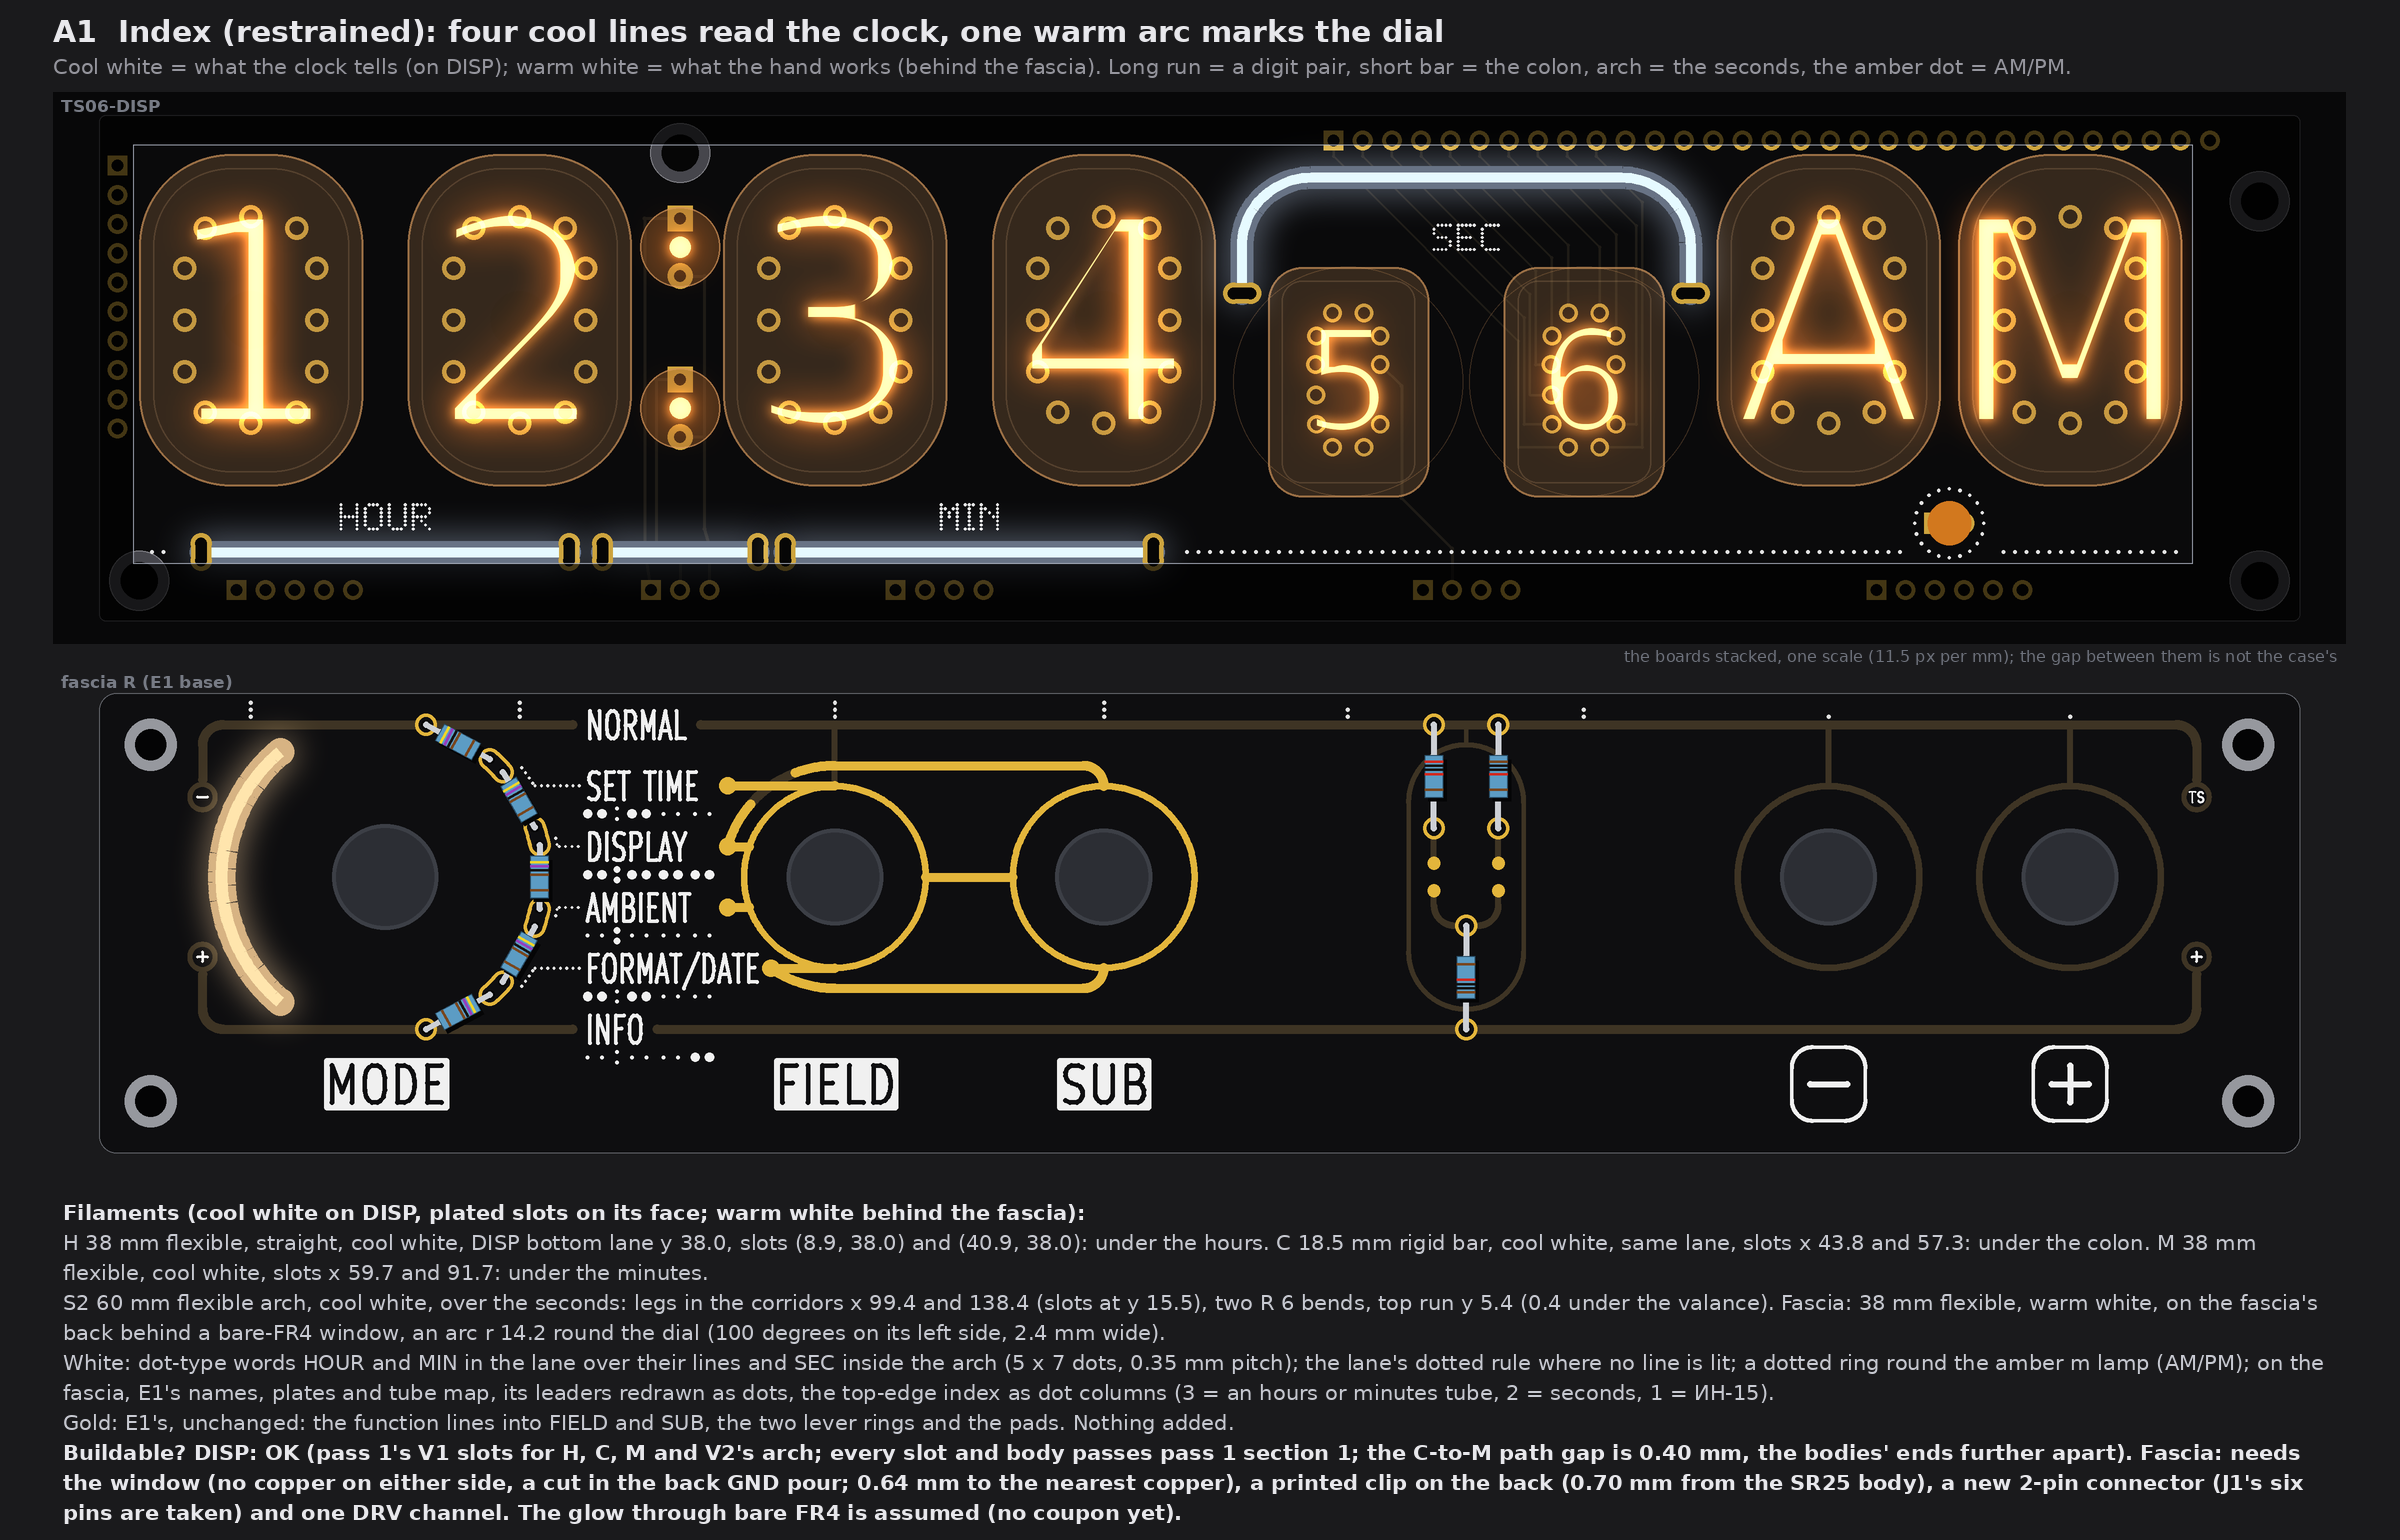
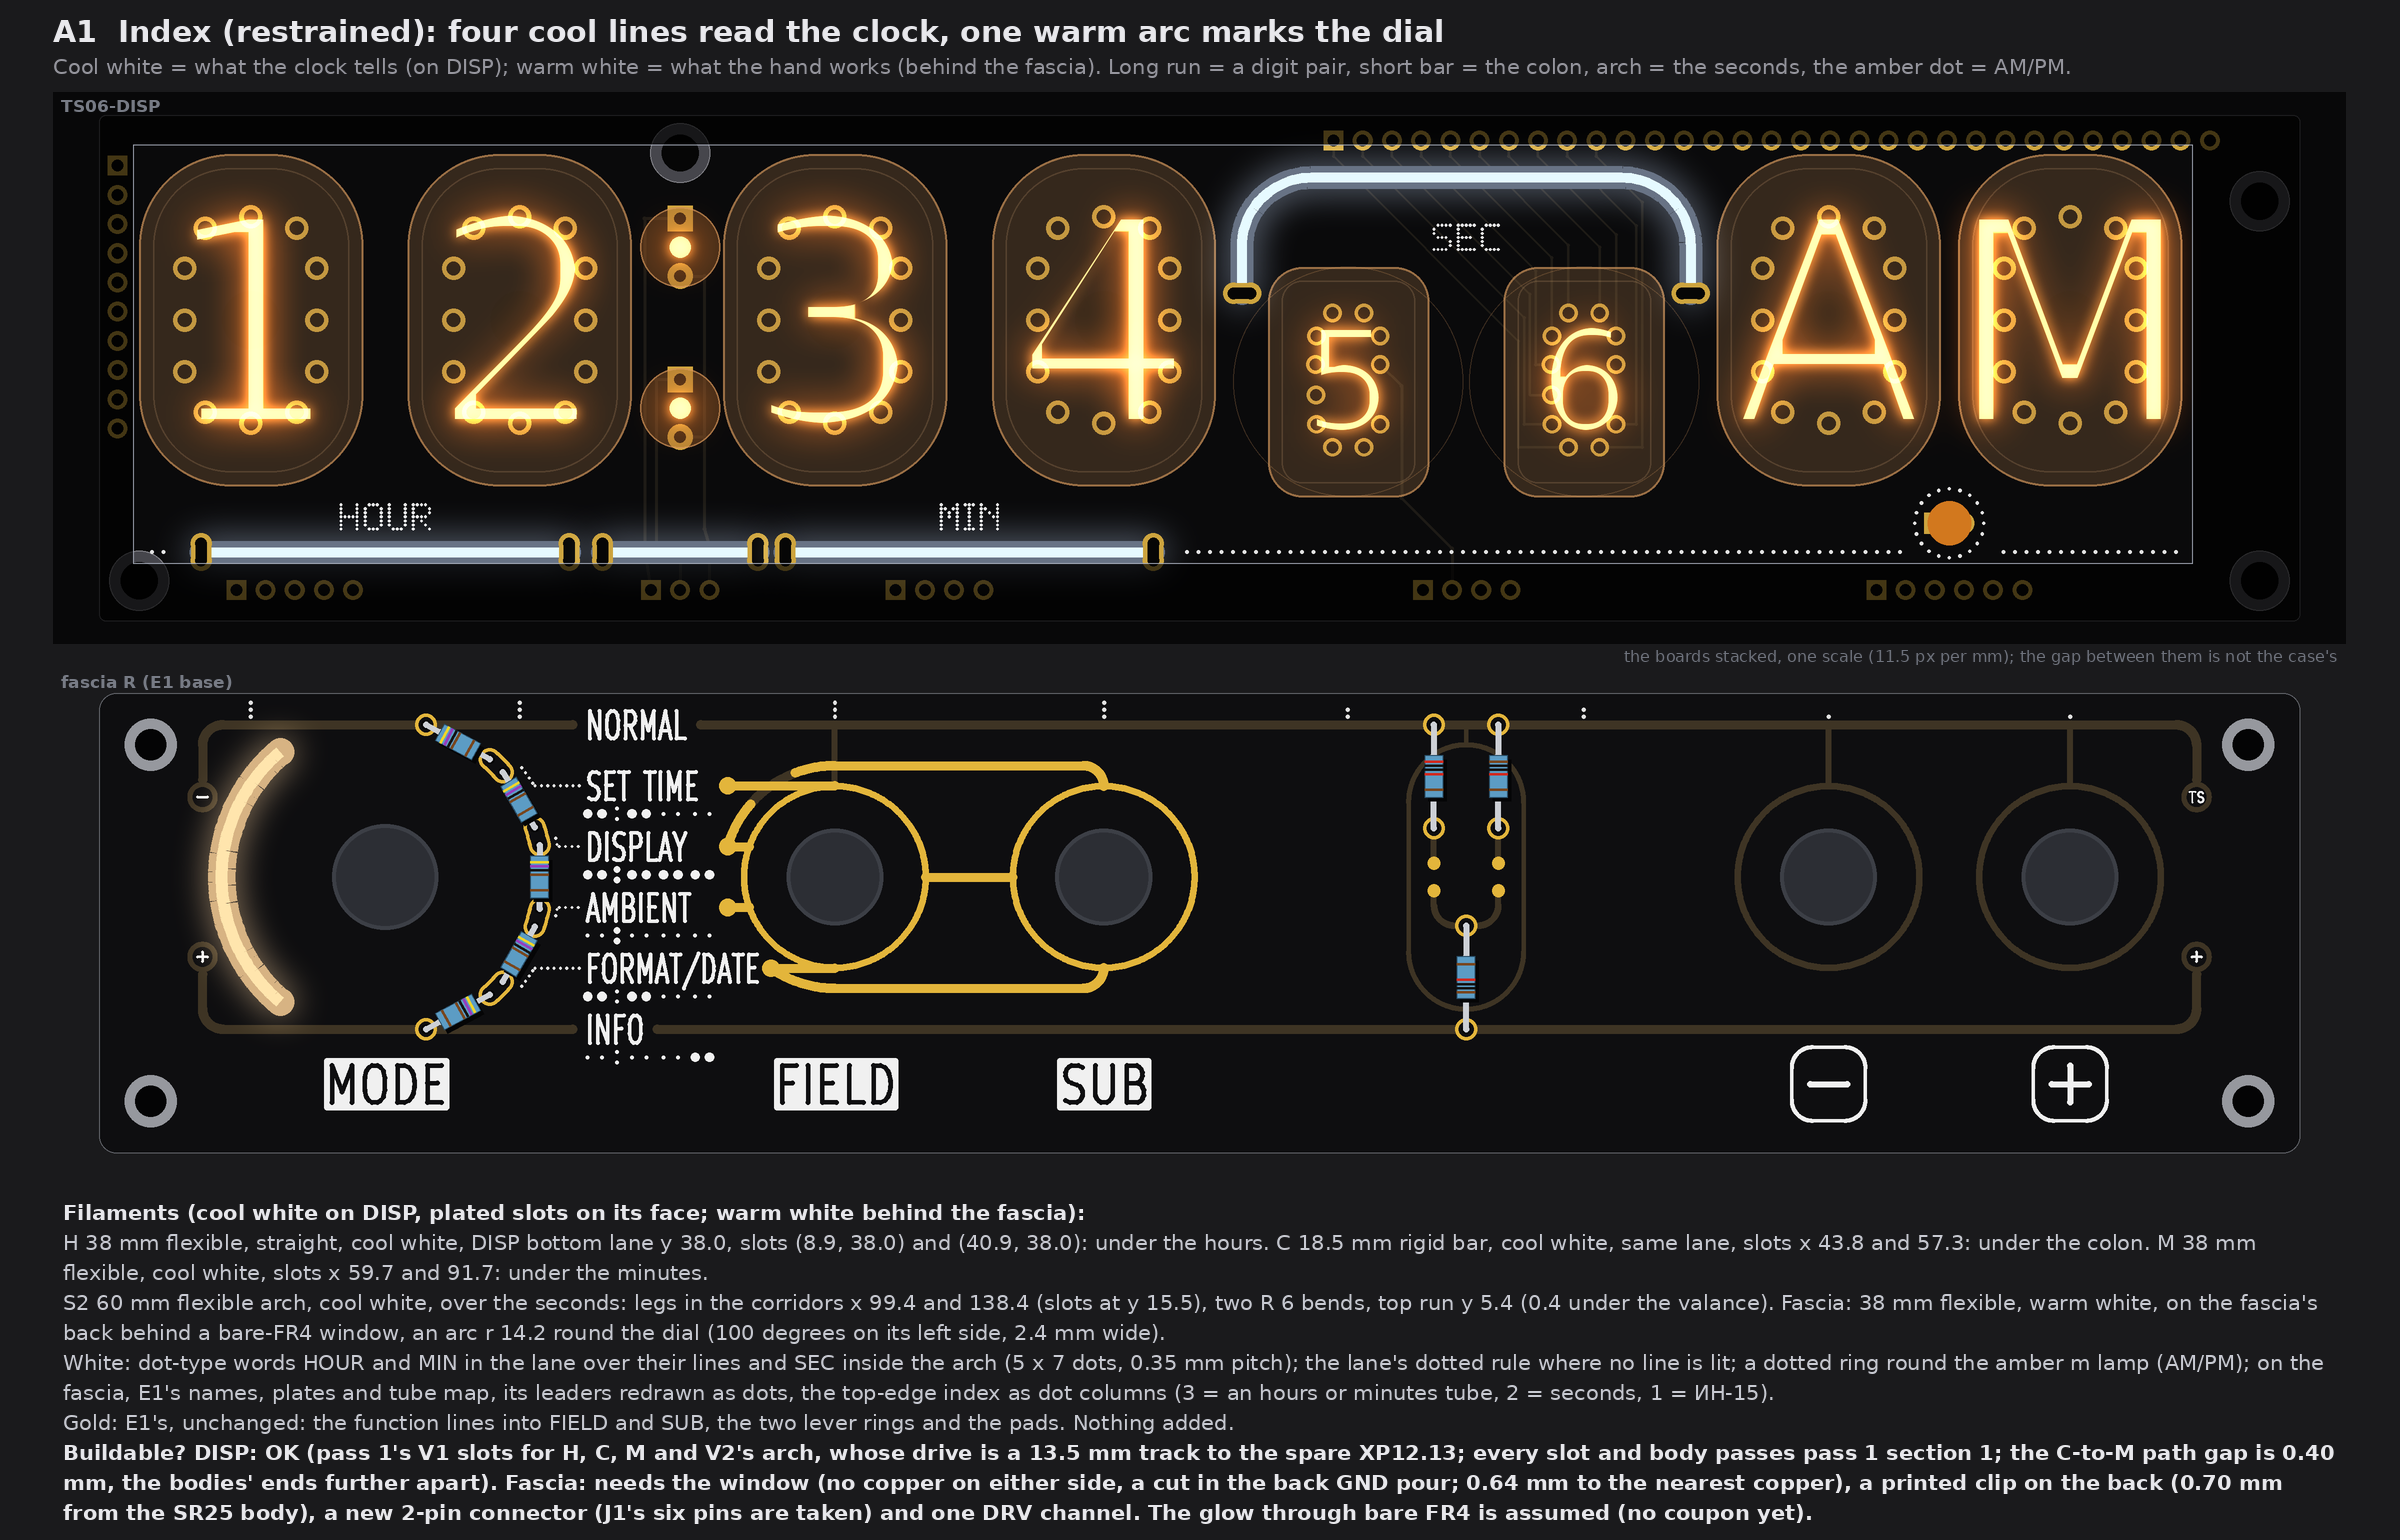
art A-glyph: three faces, contact sheet, 2x detail, write-up
A1 Index (restrained), A2 Code (bold, the pick), A3 Signal (wild):
cool white lines on TS06-DISP read the zones, warm white arcs behind
bare-FR4 windows mark the fascia's round controls, white dot type and
dotted rules as the second voice, gold kept to E1's function lines
(A3 adds one GND hairline). Drawings only; no board or tool file touched.

Claude-Session: https://claude.ai/code/session_01WoV3gyAFgmtuk6W6Dr4bdA

Changed region(s): [[0.0312, 0.9351, 0.9688, 0.9974]]

diff --git a/PCB/art/TS06-FRONT-art-A-glyph.md b/PCB/art/TS06-FRONT-art-A-glyph.md
@@ -1,0 +1,71 @@
+# TS06 front art A, "Glyph": lit lines as a code for the zones (three faces, TS06-DISP above fascia R; drawings only, nothing built)
+
+No board, schematic, fab, tool, 3D, firmware or spec file was touched. The pictures are drawn from `PCB/TS06-DISP/TS06-DISP.kicad_pcb` and fascia R (`PCB/TS06-FASCIA-rhythm`, the copy with its control holes opened that pass 4 used), read with Python and never written, on top of fascia pass 4's E1 art. Marks: *listing data* is from the shop pages; *inferred* is arithmetic or a typical figure; *assumed* is my reading, not measured or asked. No prices. The scratch scripts are in the run's scratch folder (`front-art-A/work`), not in the repo.
+
+![The three faces at one scale](TS06-FRONT-art-A-glyph/contact-sheet.png)
+
+## 1. The idea in one paragraph
+
+A few bold filament strokes and a second voice of white dots, everything on one grid. The grid is already in the boards: the fascia's controls stand under the display's zones (the dial at x 24.89 is the hours' axis, the middle of FIELD and SUB at 75.68 is the minutes', the ladder at 118.89 is the seconds', the middle of the keys at 160.9 is the amber m lamp and the AM/PM pair). Each stroke is symmetric about its own zone's axis. **The code:**
+
+| | Meaning |
+|---|---|
+| **Cool white** | what the clock tells (every line on DISP) |
+| **Warm white** | what the hand works (every line behind the fascia) |
+| Long level run | a digit pair (hours, minutes; seconds in A2 and A3) |
+| Short rigid bar | punctuation: the colon |
+| Arch | the seconds (the only zone that moves every second) |
+| The amber m lamp in a dotted ring | AM/PM (no line fits there, see section 5) |
+| Arc round a control | something you turn or press round (the dial; the keys) |
+| Dots | the index: words in a 5 x 7 dot type, dotted rules and leaders, dot columns on the fascia's top edge (3 = an hours or minutes tube, 2 = seconds, 1 = ИН-15) |
+
+The colour split keeps pass 4's rule that nothing may say a false thing: no warm line points at a tube, so the dial under the hours does not claim to set the hours. Gold stays almost out: E1's function lines (which name works which lever) are still the only exposed gold in A1 and A2; A3 adds one hairline.
+
+**Behaviour (a proposal, no firmware touched):** each zone is one channel and can be dimmed or animated (Steady, Breathe, Glitch, Live). Suggested: the seconds' arch Breathes once a second; the zone that FIELD has selected Breathes while a setting screen is open; the fascia's key arcs light only on screens 2 to 5, where the keys work (spec section 1). Then the light says which zone the hand is changing, with no line crossing the face.
+
+## 2. A1 "Index" (restrained)
+
+![A1](TS06-FRONT-art-A-glyph/a1-index.png)
+
+* **Filaments:** H 38 mm flexible, straight, cool white, DISP bottom lane y 38.0, slots (8.9, 38.0) and (40.9, 38.0), under the hours; C 18.5 mm rigid bar, cool white, same lane, slots x 43.8 and 57.3, under the colon; M 38 mm flexible, cool white, slots x 59.7 and 91.7, under the minutes; S2 60 mm flexible arch, cool white, over the seconds, legs in the corridors x 99.4 and 138.4 (slots at y 15.5), two R 6 bends, top run y 5.4; fascia: one 38 mm flexible, warm white, on the fascia's back behind a bare-FR4 arc window r 14.2 round the dial (100 degrees on its left side, 2.4 mm wide).
+* **White:** HOUR and MIN in dot type in the lane over their lines, SEC inside the arch (5 x 7 dots, 0.35 mm pitch, 0.25 mm dots); the lane's dotted rule wherever no line is lit; a dotted ring round the m lamp; on the fascia, E1's names, plates and tube map, its leaders redrawn as dots, its top-edge bulbs replaced by dot columns.
+* **Gold:** E1's, unchanged (the function lines into FIELD and SUB, the lever rings, the pads).
+* **Buildable? DISP: OK.** The slot sites are pass 1's V1 (H, C, M) and V2 (the arch), rechecked here with pass 1's own checker: every slot and body passes section 1's rules; the arch needs pass 1's 13.5 mm drive track to the spare XP12.13. **Fascia: needs** the window (no copper on either side, a cut in the back GND pour; 0.64 mm to the nearest copper, the GND lug), a printed clip on the back (the filament keeps 0.70 mm from the SR25 body, r 12.5), a new 2-pin connector (J1's six pins are all used: +5V, GND, A6, A7, D7, D8) and one DRV channel.
+
+## 3. A2 "Code" (bold)
+
+![A2](TS06-FRONT-art-A-glyph/a2-code.png)
+
+* **Filaments:** A1's five, plus S 38 mm flexible, straight, cool white, lane y 38.0, slots x 102.9 and 134.9, under the seconds (the seconds are framed: arch above, run below); and two 38 mm flexible, warm white, behind bare-FR4 arcs r 10.0 round the minus and plus keys (150 degrees each, on the outer sides, mirror images about x 160.9): ( - + ).
+* **White:** A1's, plus a 60-dot seconds scale inside the arch (every fifth dot larger). The lane now reads long, short, long, long, ring: hours, colon, minutes, seconds, AM/PM.
+* **Gold:** E1's, unchanged.
+* **Buildable? DISP: OK** (five lines; S is pass 1's V1 seconds). **Fascia: needs** three windows (0.51 mm to the nearest copper, the GND lug right of plus), a 3-pin connector and two DRV channels; the KMD1 bodies behind the keys must stay inside r 8.8 (*assumed*, not measured). No case change.
+
+![A2 at 2x: the seconds, the m lamp's ring and the key arcs](TS06-FRONT-art-A-glyph/detail-a2-2x.png)
+
+## 4. A3 "Signal" (wild)
+
+![A3](TS06-FRONT-art-A-glyph/a3-signal.png)
+
+* **Filaments:** A2's eight, plus pass 1's VU under the glass (in the printed shim, no slot on the face): an 18.5 mm rigid bar, cool white, under each ИН-12 and ИН-15 (six), 11.35 mm below the glass centre, and one 38 mm flexible, cool white, under the ИН-17 pair, 8.35 mm below; and on the fascia an 18.5 mm rigid bar, warm white, plumb at x 160.9 between minus and plus (window y 9.6 to 22.4): the plus-minus axis.
+* **White:** A2's, plus dotted stems between the two tubes of each pair (x 24.9, 75.7 and 160.9, the last down to the m lamp's ring) and two dot fields on a 1.0 mm grid in the fascia's dark half. The dot fields carry no information: decoration, said plainly.
+* **Gold:** E1's, plus one hairline: the mask opened 0.3 mm wide along the GND rail on the fascia's top edge (159 mm in two runs, broken at NORMAL), the index's dots standing on it. GND net; no 185 V on the fascia.
+* **Buildable? Needs** VU's work (pass 1 called it the riskiest routing: seven drive tracks up into the tube field where B.Cu is busiest, three anode tracks nudged 0.2 mm, a channel in the shim), plus A2's fascia items and a fourth window (1.15 mm to the key rings; the bar shares the keys' channel). 16 lines: 12 on DISP in 5 zones (the 8 BL_A channels and XP12.13 are enough if a zone's lines share one), 4 on the fascia on 2 channels.
+
+## 5. What the checks said, and what does not fit
+
+| Check (rule) | A1 | A2 | A3 |
+|---|---|---|---|
+| DISP lines, pass 1's `problems()` (glass 0.5, stem 0.5, screw head 0.3, slot to other copper 0.3, to 185 V 0.6 track / 0.8 pad, edge 0.5) | none | none | none (VU lines are in the shim, pass 1's own findings stand) |
+| Least gap between two lines (0.4) | 0.40, C to M, measured on the slot-to-slot paths (the bodies' ends are further apart) | same | same |
+| DISP silk dot to a pad / slot pad / glass / a body | 0.54 / 1.86 / 2.55 / 0.88 | 0.54 / 1.66 / 2.55 / 0.82 | 0.54 / 1.66 / 0.65 / 0.82 |
+| Fascia window to copper / silk / edge / screw / knob keep-out (r 9) | 0.64 / 1.46 / 3.98 / 5.76 / 4.0 | 0.51 / 1.19 / 3.98 / 5.76 / 4.0 | 0.51 / 1.19 / 3.98 / 5.76 / 4.0 |
+| Fascia silk dot to exposed gold (0.30) / to a name | 0.43 / 0.48 | 0.43 / 0.48 | 0.43 / 0.48 |
+
+* **Not buildable, so not drawn: a pair of short bars under AM/PM, mirrored about the m lamp.** Every slot site between the ИН-15 pair's lane and the lamp falls on a 185 V anode: ANODE_AM runs down at x 157.1 and ANODE_PM at x 164.7 on B.Cu, and a slot there is -0.64 mm from them. Right of the seconds, free slot centres on y 38 are only x 150.3 and below, 158.8 to 160.8 (under the lamp itself) and 174.3 to 182.8, too short for an 18.5 mm bar on the right. So AM/PM keeps the lamp as its mark, ringed in white dots. Pass 1's plumb bar in the right band would work but needs the case's right wall moved out about 4 mm and breaks the symmetry; I left it out.
+* *Assumed:* that bare FR4 glows evenly and reads warm white from a warm-white filament lying on the back, through the board (thickness *assumed* 1.6 mm) (no coupon has been made; pass 1's coupon question still stands); that the filament body is 2.0 mm and bends at R 6 (*listing data* and pass 1); the KMD1 bodies' size behind the panel.
+* Every face rides on pass 1's driver plan (a 16-channel PWM chip on TS06-DRV, not built): "OK" above means the geometry and the board rules, not the drive.
+
+## 6. My pick
+
+**A2 "Code".** It is the only face where every zone has its own stroke and the two temperatures split reading from doing, with no case change, no new 185 V risk and only three windows and a small connector on the fascia; A1 is the fallback if the fascia should stay untouched apart from the dial, and A3's under-glass light is the one to try on the bench before anyone routes for it.
